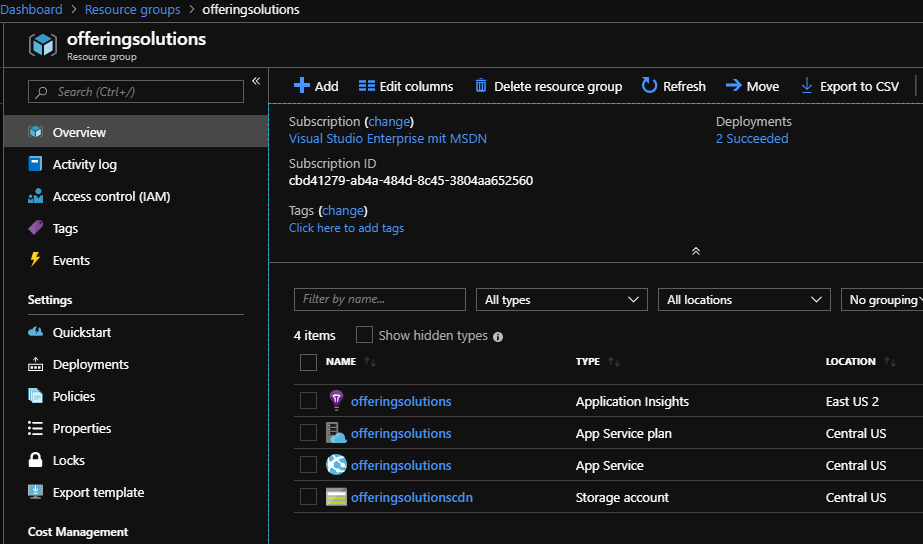
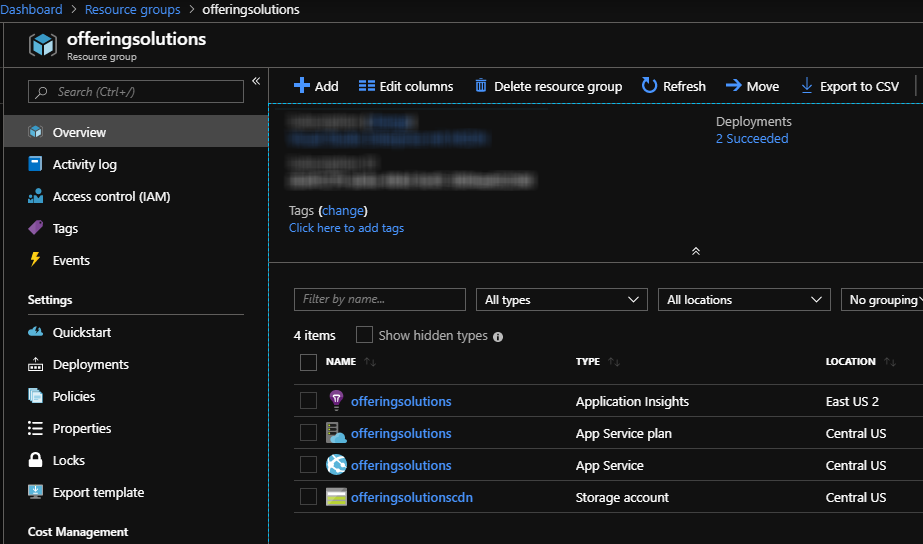
smol changes

Changed region(s): [[0.3034, 0.1875, 0.5764, 0.375]]

diff --git a/homepage/content/blog/2019-05-29-moving-to-hugo-on-azure-with-cloudflare.md b/homepage/content/blog/2019-05-29-moving-to-hugo-on-azure-with-cloudflare.md
@@ -208,7 +208,7 @@ With the help of [Benjamin Abt](https://twitter.com/abt_benjamin) I got a script
 The Azure App Service Deploy stayed the same but I removed the old task of deploying the files to the blog and used the azure cli instead with the following script
 
 ```
-az storage blob upload-batch --account-name offeringsolutionscdn --destination $web --source $(System.DefaultWorkingDirectory)\offering-solutions-hugo-CI\cdn --content-cache-control "public, max-age=2592000"
+az storage blob upload-batch --account-name <storage-account-name-here> --destination <container-here> --source $(System.DefaultWorkingDirectory)\offering-solutions-hugo-CI\cdn --content-cache-control "public, max-age=2592000"
 ```
 
 Where `$(System.DefaultWorkingDirectory)\offering-solutions-hugo-CI\cdn` refers to the name of the artifact getting dropped out.
